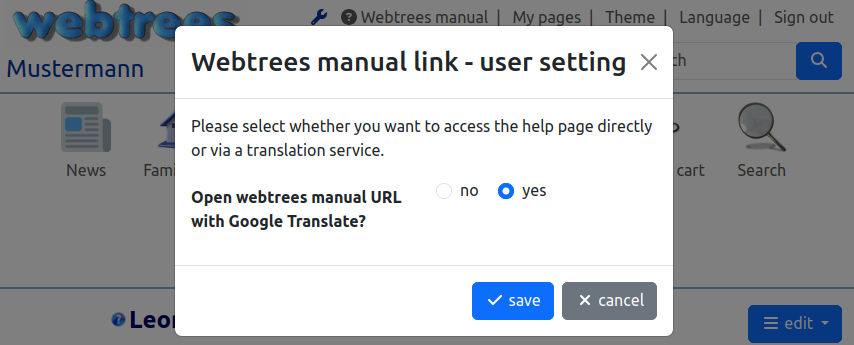
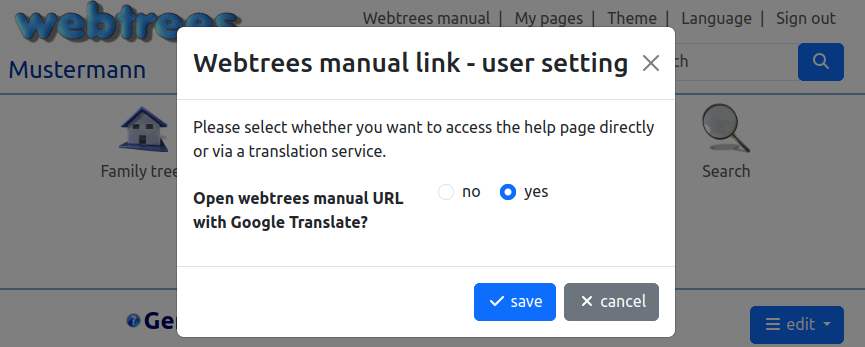
documentation

diff --git a/README.md b/README.md
@@ -31,7 +31,7 @@ The main purpose of this module is to make [**links to data records**](#enhanced
 Additionally there are some goodies more or less related with links:
 
 - The note textarea can be a [**visual markdown editor**](#mde) with **markdown help**.
-- A [**context sensitive help link**](#wthb) to the [german webtrees manual](https://wiki.genealogy.net/Webtrees_Handbuch) can be activated in the small menu at the top of the page. It's also possible to activate them for subcontext topics.
+- [**Context sensitive help links**](#wthb) to the [german webtrees manual](https://wiki.genealogy.net/Webtrees_Handbuch) can be activated in the small menu at the top of the page and for subcontext topics on the page. Furthermore, full-text search is supported and it is possible to browse the table of contents.
 - The [**site title can be a link**](#homelink) to the tree homepage or the user my page.
 - A few minor [**patches**](#patches), that can applied by bash script (not necessary for this module).
 
@@ -114,9 +114,9 @@ After a lot of theory: How does it looks like in webtrees?! In the upper part of
 
 Now some **explanation** for the used properties in the code snippet above (as a reminder, how the syntax of a base enhanced link looks like: `#@param-key=param-value`):
 * *key* = is the above mentioned short name or query parameter key (param-key)
-* *name* = title or label to be displayed as link title;
+* *name* = title or label to be displayed as link title;\
   standard: the placeholder `$ID` will be replaced by the given id (param-value)
-* *url* = service url to be called
+* *url* = service url to be called\
   standard: the parameter value / given record id (param-value) will be appended to the end of the url
   It can also be a function provided, that accepts as parameter (id, title) and returns an object `{ url, title }`. This returned title will be set instead of the name-property.
 * *cname* = [CSS](https://en.wikipedia.org/wiki/CSS) class name(s) whitespace separated
@@ -124,11 +124,11 @@ Now some **explanation** for the used properties in the code snippet above (as a
 
 `I18N` is an JavaScript object passed through from this module. 
 
-Any CSS rules required are best added via the [“CSS and JS” module](https://wiki.genealogy.net/Webtrees_Handbuch/Anleitung_f%C3%BCr_Administratoren/Module#CSS_und_JS). Only the definition of the icon (size 30 x 30 pixels is sufficient) as a background image is actually needed - referencing as data: URL (see also: [mdn web docs - data: URLs](https://developer.mozilla.org/en-US/docs/Web/URI/Reference/Schemes/data)).
+Any CSS rules required are best added via the [“CSS and JS” module](https://wiki.genealogy.net/Webtrees_Handbuch/Anleitung_f%C3%BCr_Administratoren/Module#CSS_und_JS). Only the definition of the icon (size 30 x 30 pixels is sufficient) as a background image is actually needed - referencing as data: URL (see also: [mdn web docs - data: URLs](https://developer.mozilla.org/en-US/docs/Web/URI/Reference/Schemes/data)).\
 For example: `.icon-whatever { background-image: url(...) }`
 
 
-**Note:** If Webtrees provides better support for UID, referencing via UID will probably also be implemented in this module, as this will make links more fail-safe.
+**Note:** When Webtrees provides better support for UID, referencing via UID will probably also be implemented in this module, as this will make links more fail-safe.
 See also:
 - Forum post [Feature Request: Improved support for UID / _UID](https://www.webtrees.net/index.php/forum/9-request-for-new-feature/39942-feature-request-improved-support-for-uid-uid)
 - PR [UID References in notes and text #5145](https://github.com/fisharebest/webtrees/pull/5145)
@@ -170,14 +170,21 @@ Besides syntax higlighting it ships with an icon bar for common format commands,
 
 <a name="wthb"></a>
 ### German webtrees manual
-A context sensitive link to the [german webtrees manual](https://wiki.genealogy.net/Webtrees_Handbuch) can be added by javascript to the small navigation menu (if this feature is also desired in the admin backend, patch P002 would need to be applied or at least the custom module [vesta_common](https://github.com/vesta-webtrees-2-custom-modules/vesta_common/tree/master) would need to be installed).
+A **context sensitive help link** to the [german webtrees manual](https://wiki.genealogy.net/Webtrees_Handbuch) can be added to the small navigation menu. Context links are also available for components on pages provided by custom extensions (e.g. on the individuals page, the start page or items in the main menu) – these can be identified by the i symbols in a circle.
+![WTHB subcontext help](resources/img/screenshot_wthb-subcontext.png)
 
-If the webtrees page is displayed in a language other than German, it is possible to open the webtrees manual URL via a translation service ([Google Translate](https://translate.google.com/)). This can be enabled or disabled as a site setting or delegated to the visitor to decide.
+If this feature is also required in the admin backend, patch P002 must be applied or at least the custom module [vesta_common](https://github.com/vesta-webtrees-2-custom-modules/vesta_common/tree/master) must be installed
+
+If the webtrees page is displayed in a language other than german, it is possible to **open the webtrees manual URL via a translation service** ([Google Translate](https://translate.google.com/)). This can be enabled or disabled as a site setting or delegated to the visitor to decide.
 ![WTHB user setting](resources/img/screenshot_wthb-user-setting.png)
-The link to the setting dialog is displayed when you hover the mouse cursor over the help link for a few seconds.
+The settings dialogue can be accessed via the popover of the help link in the top menu. When this option is enabled, you will also find a link to a dialogue box that displays a **full-text search** in the german webtrees manual (using various search engines) and the **table of contents**.
+![WTHB full-text search and toc](resources/img/screenshot_wthb-help.png)
 
 
-The mapping of routes to help articles in the manual is stored in the database table `route_help_map`. The table has the following headers (the headers required in a CSV file for import are marked with !!):
+The **mapping of routes to help articles** in the manual is stored in the database table `route_help_map`. This module comes with predefined mapping rules. If there is something missing or you find an issue, don't hesitate to share it. I'll include it in the next release. 
+
+**Technical background information** follows now.\
+The table has the following headers (the headers required in a CSV file for import are marked with !!):
 
 * `id`: automatic key - not relevant, the data field is only used to make it easier to identify the data record during editing.
 * `path` **!!**: route path - corresponds to the path of webtres pretty urls
@@ -226,7 +233,7 @@ Further more you can import and export data in csv format in order to make chang
 
 In case of discrepancies the context help can be more easily adjusted by activating the option "Output of debug information on the JS console". This provides you with information on the active route and, if applicable, data table entries found for matching routing to help topics.
 
-This module comes with predefined mapping rules. If there is something missing or you find an issue, don't hesitate to share it. I'll include it in the next release.
+This module comes with a local copy of the german webtrees manual **table of contents**. An automatic update is not implemented so far. If you wish to update it without updating this module, you can use the utility script [update-wthb-toc.sh](util/update-wthb-toc.sh).
 
 
 <a name="homelink"></a>
@@ -288,8 +295,10 @@ and build-in themes and some other custom modules.
 
 <a name="installation"></a>
 ## Installation
-To manually install the module, perform the following steps:
+- Install and use [Custom Module Manager](https://github.com/Jefferson49/CustomModuleManager) for an easy and convenient installation of webtrees custom modules.
+- Open the Custom Module Manager view in webtrees, select "linkenhancer", and click on the "Install Module" button.
 
+**Manual installation**:
 1. Download the [latest release](https://github.com/bschwede/linkenhancer/releases/latest) of the module.
 2. Upload the downloaded file to your web server.
 3. Unzip the package into your ``modules_v4`` directory.
@@ -297,7 +306,7 @@ To manually install the module, perform the following steps:
 
 If everything was successful, you should see a subdirectory ``linkenhancer`` with the unpacked content in the ``modules_v4`` directory.
 
-During the initial installation, the following problem may occur: "PDO error - There is no active transaction" - for more details see [known issues](./issues?q=label%3A"known-issue").
+During the initial installation, the following problem may occur: "PDO error - There is no active transaction" - for more details see [known issues](https://github.com/bschwede/linkenhancer/issues?q=label%3A"known-issue").
 
 <a name="contributing"></a>
 ## Contributing
